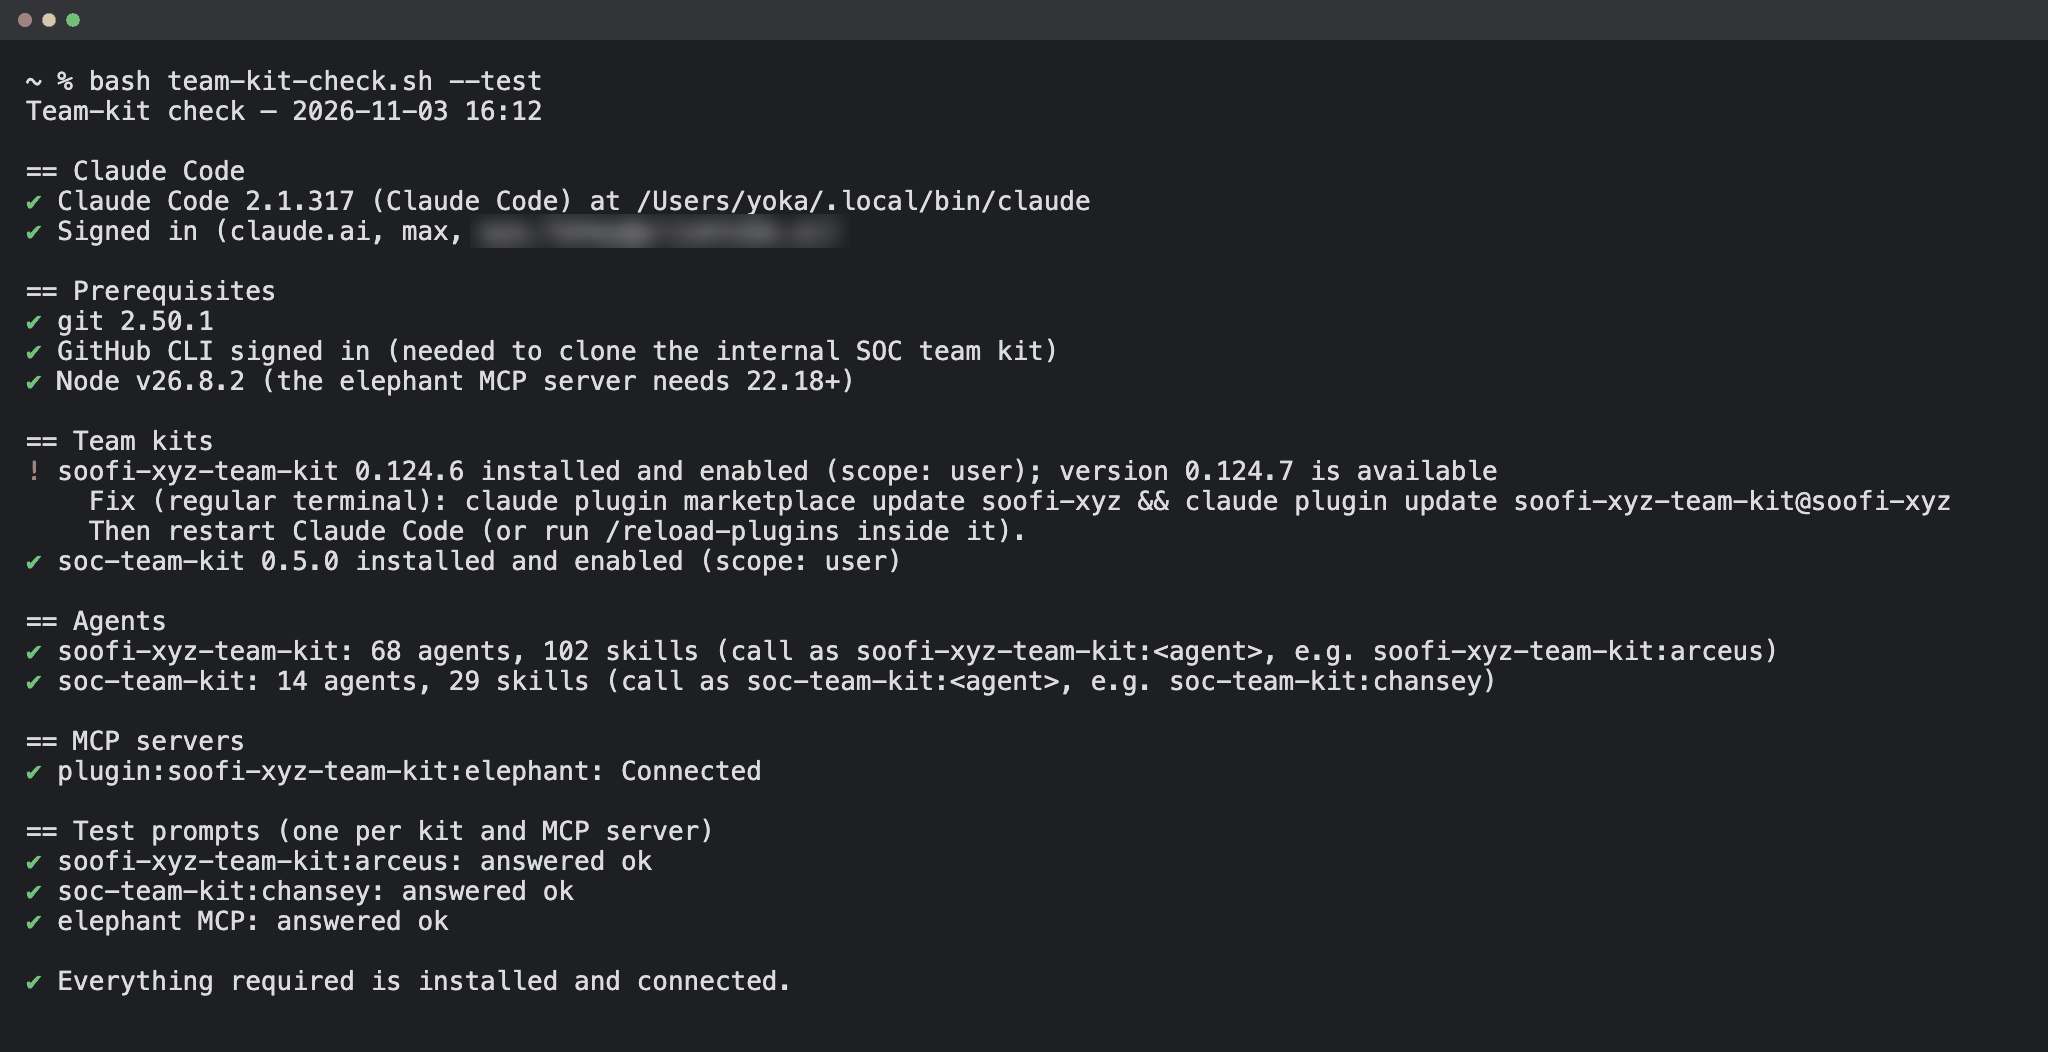
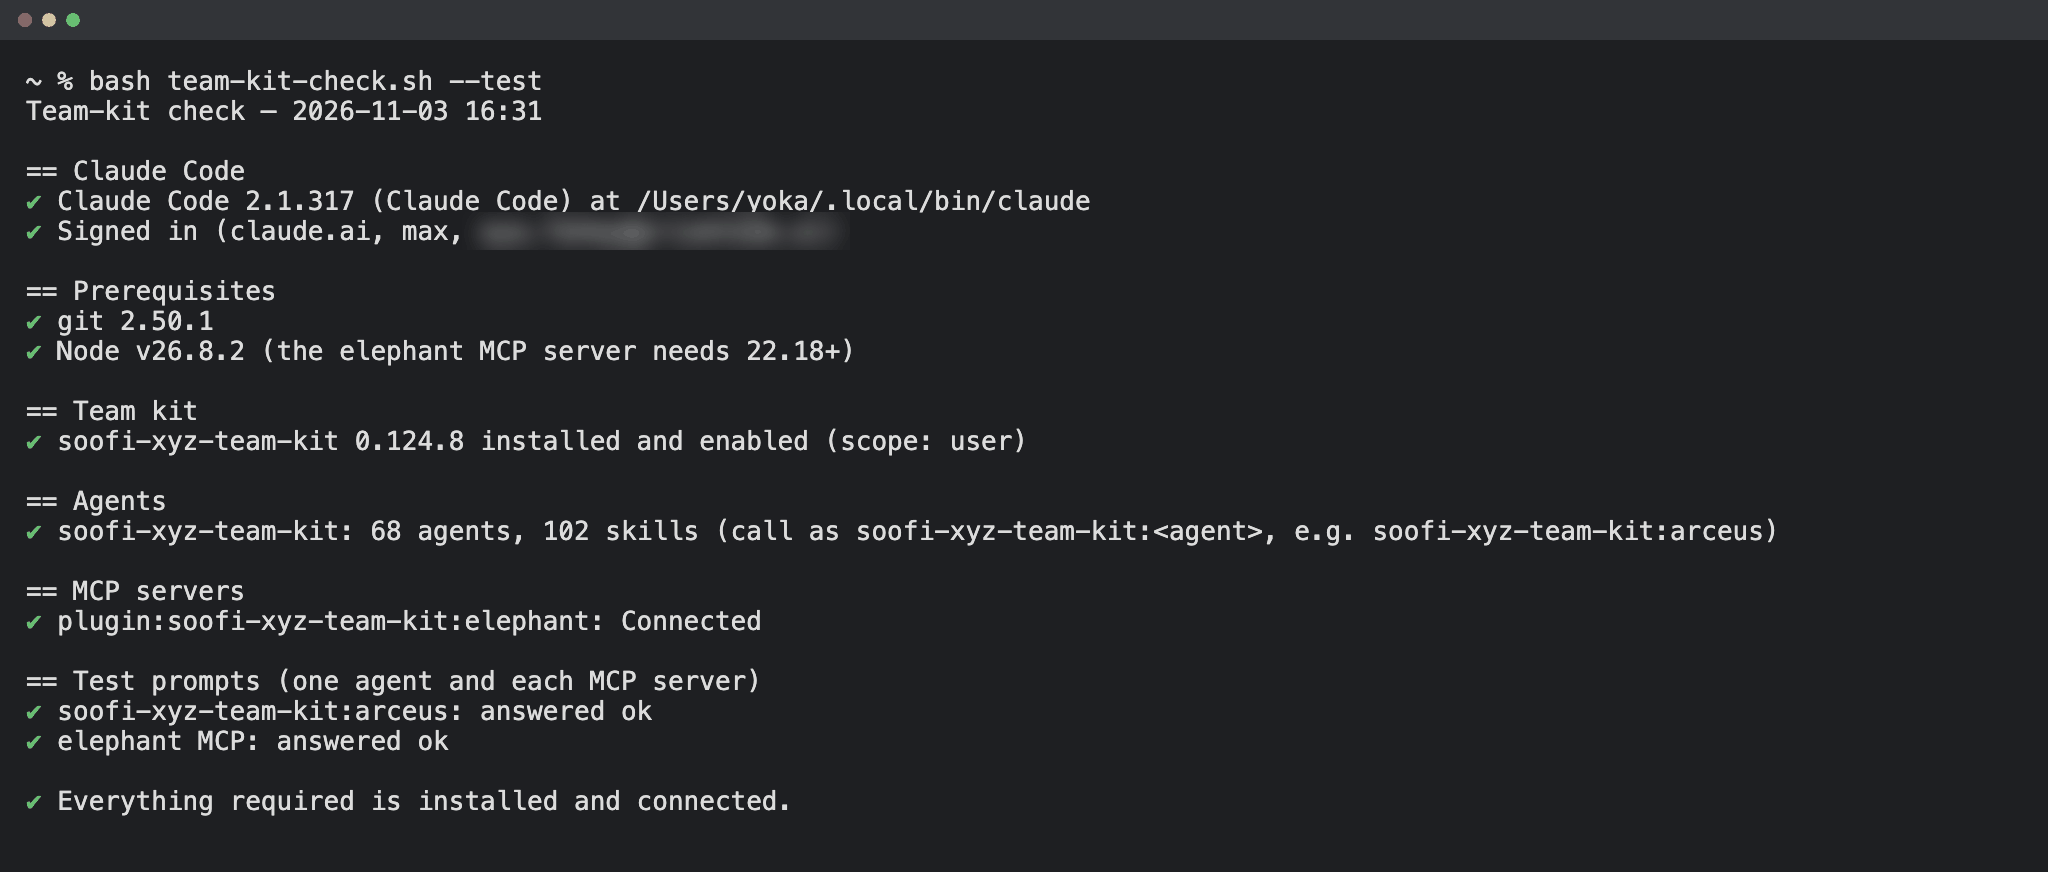
Keep the Move to Claude Code guide to the Soofi team kit
Remove the SOC team kit install, test prompt and screenshots, the GitHub CLI
prerequisite it needed, and the SOC entry in team-kit-check; recapture the
plugin list and check screenshots with only the Soofi kit.

Changed region(s): [[0.0, 0.0619, 0.9688, 0.7431], [0.0, 0.7741, 0.375, 0.9599], [0.0, 0.0, 0.0312, 0.031]]

diff --git a/docs/move-to-claude-code.md b/docs/move-to-claude-code.md
@@ -1,6 +1,6 @@
 # Move to Claude Code
 
-This guide takes you from a clean Mac to Claude Code with the Soofi and SOC team kits
+This guide takes you from a clean Mac to Claude Code with the Soofi team kit
 installed, checked and tested, and then moves the agents you run in Cursor today. You do not
 need to have used our agents before. Follow the steps in order.
 
@@ -26,7 +26,7 @@ Mykyta Ovsiienko, and add it to the guide afterwards (see [Pass it on](#pass-it-
 1. [Pick the Claude plan and organization](#1-pick-the-claude-plan-and-organization)
 2. [Install Claude Code](#2-install-claude-code)
 3. [Start Claude Code and sign in](#3-start-claude-code-and-sign-in)
-4. [Install the Soofi and SOC team kits](#4-install-the-soofi-and-soc-team-kits)
+4. [Install the Soofi team kit](#4-install-the-soofi-team-kit)
 5. [Check and test everything](#5-check-and-test-everything)
 6. [Set up Amp for cloud runs (token)](#6-set-up-amp-for-cloud-runs-token)
 7. [Move the agents you run today](#7-move-the-agents-you-run-today)
@@ -37,10 +37,8 @@ Mykyta Ovsiienko, and add it to the guide afterwards (see [Pass it on](#pass-it-
 
 ## 0. Before you start
 
-You need a Mac (macOS 13 or later), your Prism Google account (`you@prismteam.ai`), your Ramp
-card, and access to the `Spring-Oaks-Capital-LLC` GitHub organization. If you don't have
-GitHub access yet, ask the `chansey` agent in Cursor for the SOC-email GitHub invitation
-first.
+You need a Mac (macOS 13 or later), your Prism Google account (`you@prismteam.ai`) and your Ramp
+card.
 
 **Open a regular terminal.** Press `⌘ Space`, type `Terminal`, press `Return`. Every
 "regular terminal" step below runs here.
@@ -62,7 +60,7 @@ then run the command again to see the path.
 **If you don't:** if the window says the software is not available, install Xcode from the
 App Store, open it once, and run the command again.
 
-### 0.2 Homebrew, GitHub CLI and Node
+### 0.2 Homebrew and Node
 
 **Where:** regular terminal
 
@@ -70,17 +68,10 @@ App Store, open it once, and run the command again.
 
 ```bash
 /bin/bash -c "$(curl -fsSL https://raw.githubusercontent.com/Homebrew/install/HEAD/install.sh)"
-brew install gh node
-gh auth login
-gh auth setup-git
+brew install node
 ```
 
-For `gh auth login` choose **GitHub.com**, **HTTPS**, **Yes** to authenticate Git, and
-**Login with a web browser**. Sign in with the GitHub account that has
-`Spring-Oaks-Capital-LLC` access.
-
-**You should see:** `gh auth status` prints `✓ Logged in to github.com account …`, and
-`node -v` prints `v22.18.0` or higher.
+**You should see:** `node -v` prints `v22.18.0` or higher.
 
 **If you don't:**
 
@@ -246,11 +237,11 @@ Type `/exit` and press `Return` to go back to the regular terminal.
 
 ---
 
-## 4. Install the Soofi and SOC team kits
+## 4. Install the Soofi team kit
 
 **Where:** regular terminal (not inside Claude Code)
 
-### 4.1 Soofi team kit
+### 4.1 Install
 
 **Run:**
 
@@ -266,26 +257,7 @@ claude plugin install soofi-xyz-team-kit@soofi-xyz
 
 ![claude plugin install soofi-xyz-team-kit@soofi-xyz: Successfully installed plugin (scope: user)](./images/move-to-claude-code/12-plugin-install-soofi.png)
 
-### 4.2 SOC team kit
-
-The SOC team kit lives in an internal repository, so this step uses the GitHub sign-in
-from step 0.2.
-
-**Run:**
-
-```bash
-claude plugin marketplace add Spring-Oaks-Capital-LLC/soc-team-kit
-claude plugin install soc-team-kit@socapital
-```
-
-**You should see:** `✔ Successfully added marketplace: socapital`, then
-`✔ Successfully installed plugin: soc-team-kit@socapital (scope: user)`.
-
-![claude plugin marketplace add Spring-Oaks-Capital-LLC/soc-team-kit: Successfully added marketplace: socapital](./images/move-to-claude-code/13-marketplace-add-soc.png)
-
-![claude plugin install soc-team-kit@socapital: Successfully installed plugin (scope: user)](./images/move-to-claude-code/14-plugin-install-soc.png)
-
-### 4.3 Confirm
+### 4.2 Confirm
 
 **Run:**
 
@@ -293,20 +265,19 @@ claude plugin install soc-team-kit@socapital
 claude plugin list
 ```
 
-**You should see:** both kits with `Status: ✔ enabled`. The line
+**You should see:** `soofi-xyz-team-kit@soofi-xyz` with `Status: ✔ enabled`. The line
 `Note: Default agents/ folder is ignored because the manifest sets "agents"` is expected;
 ignore it.
 
-![claude plugin list showing soc-team-kit@socapital and soofi-xyz-team-kit@soofi-xyz, both enabled](./images/move-to-claude-code/15-plugin-list.png)
+![claude plugin list showing soofi-xyz-team-kit@soofi-xyz enabled](./images/move-to-claude-code/15-plugin-list.png)
 
 **If you don't:**
 
-- `Failed to clone` or `Repository not found` for the SOC kit: your GitHub account has no
-  access to `Spring-Oaks-Capital-LLC`, or git cannot use your sign-in. Run `gh auth status`
-  and `gh auth setup-git`, accept the GitHub organization invitation, then retry.
+- `Failed to clone`: check that you are online and that `git --version` works (step 0.1),
+  then retry.
 - `Marketplace 'soofi-xyz' already exists`: it was added before. Run
   `claude plugin marketplace update soofi-xyz` and continue with the install line.
-- `Plugin not found`: copy the install line exactly, including `@soofi-xyz` or `@socapital`.
+- `Plugin not found`: copy the install line exactly, including `@soofi-xyz`.
 - If Claude Code was open while you installed, type `/reload-plugins` inside it, or quit
   and start it again.
 
@@ -325,7 +296,7 @@ curl -fsSL https://raw.githubusercontent.com/soofi-xyz/soofi-xyz-team-kit/main/s
 ```
 
 It reports what is installed, which agents are available, which MCP servers are connected
-or failing, and sends one test prompt per kit and per MCP server. Each failure comes with
+or failing, and sends one test prompt to an agent and to each MCP server. Each failure comes with
 its fix and where to run it. Drop `-s -- --test` for a quicker check without test prompts,
 or use `--agents` to list every agent name. Inside Claude Code, the same check runs with
 `/soofi-xyz-team-kit:team-kit-check`.
@@ -333,7 +304,7 @@ or use `--agents` to list every agent name. Inside Claude Code, the same check r
 **You should see:** only `✔` lines and, at the end,
 `✔ Everything required is installed and connected.`
 
-![team-kit-check output: Claude Code, prerequisites, team kits, agents, MCP servers and test prompts all passing; one update notice](./images/move-to-claude-code/16-team-kit-check.png)
+![team-kit-check output: Claude Code, prerequisites, team kit, agents, MCP servers and test prompts all passing](./images/move-to-claude-code/16-team-kit-check.png)
 
 A `!` line is a warning, such as a newer kit version being available; apply its fix when
 convenient. Every `✘` line has a fix under it.
@@ -361,15 +332,15 @@ Press `Esc` to close.
 
 ![Claude Code /mcp panel listing plugin:soofi-xyz-team-kit:elephant with a checkmark and 10 tools](./images/move-to-claude-code/19-mcp-panel.png)
 
-Agents appear as `soofi-xyz-team-kit:<agent>` and `soc-team-kit:<agent>`. The check's
-`--agents` option lists all of them; the product agents are described in the
+Agents appear as `soofi-xyz-team-kit:<agent>`. The check's `--agents` option lists all
+of them; the product agents are described in the
 [README](../README.md#product-agents).
 
-### 5.3 One test prompt per kit and MCP server
+### 5.3 One test prompt for an agent and the MCP server
 
 **Where:** inside Claude Code. Type each prompt and press `Return`.
 
-**Soofi kit agent**
+**Agent**
 
 ```text
 Use the soofi-xyz-team-kit:arceus subagent to reply with exactly: ok
@@ -378,17 +349,6 @@ Use the soofi-xyz-team-kit:arceus subagent to reply with exactly: ok
 **You should see:** a `soofi-xyz-team-kit:arceus(…)` line, then `ok`.
 
 ![Claude Code running the soofi-xyz-team-kit:arceus subagent, which replies ok](./images/move-to-claude-code/17-test-soofi-agent.png)
-
-**SOC kit agent**
-
-```text
-Use the soc-team-kit:chansey subagent to reply with exactly: ok
-```
-
-**You should see:** `ok`. The screenshot shows the same prompt run from a regular
-terminal with `claude -p "…"`, which prints only the answer.
-
-![claude -p running the soc-team-kit:chansey subagent, which replies ok](./images/move-to-claude-code/18-test-soc-agent.png)
 
 **Elephant MCP server**
 
@@ -583,14 +543,12 @@ This guide improves each time a new person follows it.
 
 ```bash
 claude plugin marketplace update soofi-xyz && claude plugin update soofi-xyz-team-kit@soofi-xyz
-claude plugin marketplace update socapital && claude plugin update soc-team-kit@socapital
 ```
 
-Claude Code only picks up a new kit release when its version changes. After an update, type
+Claude Code only picks up a new release when its version changes. After an update, type
 `/reload-plugins` inside Claude Code, or start it again.
 
-To remove a kit: `claude plugin uninstall soofi-xyz-team-kit@soofi-xyz` or
-`claude plugin uninstall soc-team-kit@socapital`.
+To remove the kit: `claude plugin uninstall soofi-xyz-team-kit@soofi-xyz`.
 
 Claude Code's own docs: [setup](https://code.claude.com/docs/en/setup),
 [authentication](https://code.claude.com/docs/en/authentication),

diff --git a/skills/team-kit-check/SKILL.md b/skills/team-kit-check/SKILL.md
@@ -1,6 +1,6 @@
 ---
 name: team-kit-check
-description: "Check a person's Claude Code and team-kit setup: Claude Code install and sign-in, prerequisites, installed Soofi and SOC team kits, available agents, and MCP server connections, with the exact fix for each failure. Use when someone asks whether their setup works, after installing or updating the team kits, or when an agent or MCP server is missing or failing."
+description: "Check a person's Claude Code and team-kit setup: Claude Code install and sign-in, prerequisites, the installed Soofi team kit, available agents, and MCP server connections, with the exact fix for each failure. Use when someone asks whether their setup works, after installing or updating the team kit, or when an agent or MCP server is missing or failing."
 ---
 
 # Team-kit check
@@ -13,7 +13,7 @@ signs in, or changes settings; it prints a fix for each failure instead.
 Run the script from this skill's directory:
 
 ```bash
-bash <this-skill-dir>/scripts/team-kit-check.sh          # install, sign-in, kits, agents, MCP
+bash <this-skill-dir>/scripts/team-kit-check.sh          # install, sign-in, kit, agents, MCP
 bash <this-skill-dir>/scripts/team-kit-check.sh --agents # also list every agent name
 bash <this-skill-dir>/scripts/team-kit-check.sh --test   # also send one test prompt per kit and MCP server
 ```
@@ -37,11 +37,11 @@ requests from the person's Claude plan. Do not run `--test` repeatedly in a loop
 | Section | Passes when | Typical fix it prints |
 | --- | --- | --- |
 | Claude Code | `claude` is on `PATH` and signed in with a Claude subscription on a `@prismteam.ai` account | Add `~/.local/bin` to `PATH`; `/login` inside Claude Code |
-| Prerequisites | `git`, signed-in `gh`, Node 22.18+ | `xcode-select --install`; `gh auth login && gh auth setup-git`; `brew install node` |
-| Team kits | `soofi-xyz-team-kit@soofi-xyz` and `soc-team-kit@socapital` installed, enabled, and current | `claude plugin marketplace add …`, `claude plugin install …`, `claude plugin update …` |
+| Prerequisites | `git`, Node 22.18+ | `xcode-select --install`; `brew install node` |
+| Team kit | `soofi-xyz-team-kit@soofi-xyz` installed, enabled, and current | `claude plugin marketplace add …`, `claude plugin install …`, `claude plugin update …` |
 | Agents | Each kit exposes its agents | Reinstall the kit |
 | MCP servers | Every server in `claude mcp list` is `✔ Connected` | Per-status fix; for `elephant`, Node 22.18+ and network |
-| Test prompts (`--test`) | `soofi-xyz-team-kit:arceus`, `soc-team-kit:chansey`, and an `elephant` tool call each answer `ok` | Accept the updated Consumer Terms; open `/mcp` |
+| Test prompts (`--test`) | `soofi-xyz-team-kit:arceus` and an `elephant` tool call each answer `ok` | Accept the updated Consumer Terms; open `/mcp` |
 
 ## Report
 

diff --git a/README.md b/README.md
@@ -4,7 +4,7 @@ Product builders and configurers for Cursor, GitHub Copilot CLI, OpenAI Codex an
 
 **New to our agents, or moving from Cursor to Claude Code?** Follow the
 [Move to Claude Code guide](./docs/move-to-claude-code.md): plan and organization, install,
-sign-in, both team kits, one check command, test prompts, and moving the agents you run
+sign-in, the team kit, one check command, test prompts, and moving the agents you run
 today. In Cursor, `/move-to-claude-code` walks you through it step by step.
 
 ## Quick start
@@ -149,15 +149,8 @@ claude plugin marketplace add soofi-xyz/soofi-xyz-team-kit
 claude plugin install soofi-xyz-team-kit@soofi-xyz
 ```
 
-SOCAPITAL team members also install the internal SOC team kit:
-
-```bash
-claude plugin marketplace add Spring-Oaks-Capital-LLC/soc-team-kit
-claude plugin install soc-team-kit@socapital
-```
-
 Check what is installed, which agents are available, and which MCP servers connect, with a
-fix for each failure (`-s -- --test` also sends one test prompt per kit and MCP server):
+fix for each failure (`-s -- --test` also sends one test prompt to an agent and each MCP server):
 
 ```bash
 curl -fsSL https://raw.githubusercontent.com/soofi-xyz/soofi-xyz-team-kit/main/skills/team-kit-check/scripts/team-kit-check.sh | bash

diff --git a/skills/move-to-claude-code/SKILL.md b/skills/move-to-claude-code/SKILL.md
@@ -1,6 +1,6 @@
 ---
 name: move-to-claude-code
-description: "Walk a person who has never used our agents through moving from Cursor to Claude Code, one step at a time with the screenshot for each step: Claude plan and organization, install, sign-in and setup token, installing the Soofi and SOC team kits, checking agents and MCP servers with test prompts, Amp cloud runs, and recreating Cursor automations, loops and cloud agents. Use when someone asks to set up or move to Claude Code, install the team kits in Claude Code, or test the Move to Claude Code guide."
+description: "Walk a person who has never used our agents through moving from Cursor to Claude Code, one step at a time with the screenshot for each step: Claude plan and organization, install, sign-in and setup token, installing the Soofi team kit, checking agents and MCP servers with test prompts, Amp cloud runs, and recreating Cursor automations, loops and cloud agents. Use when someone asks to set up or move to Claude Code, install the team kit in Claude Code, or test the Move to Claude Code guide."
 ---
 
 # Move to Claude Code (guided)
